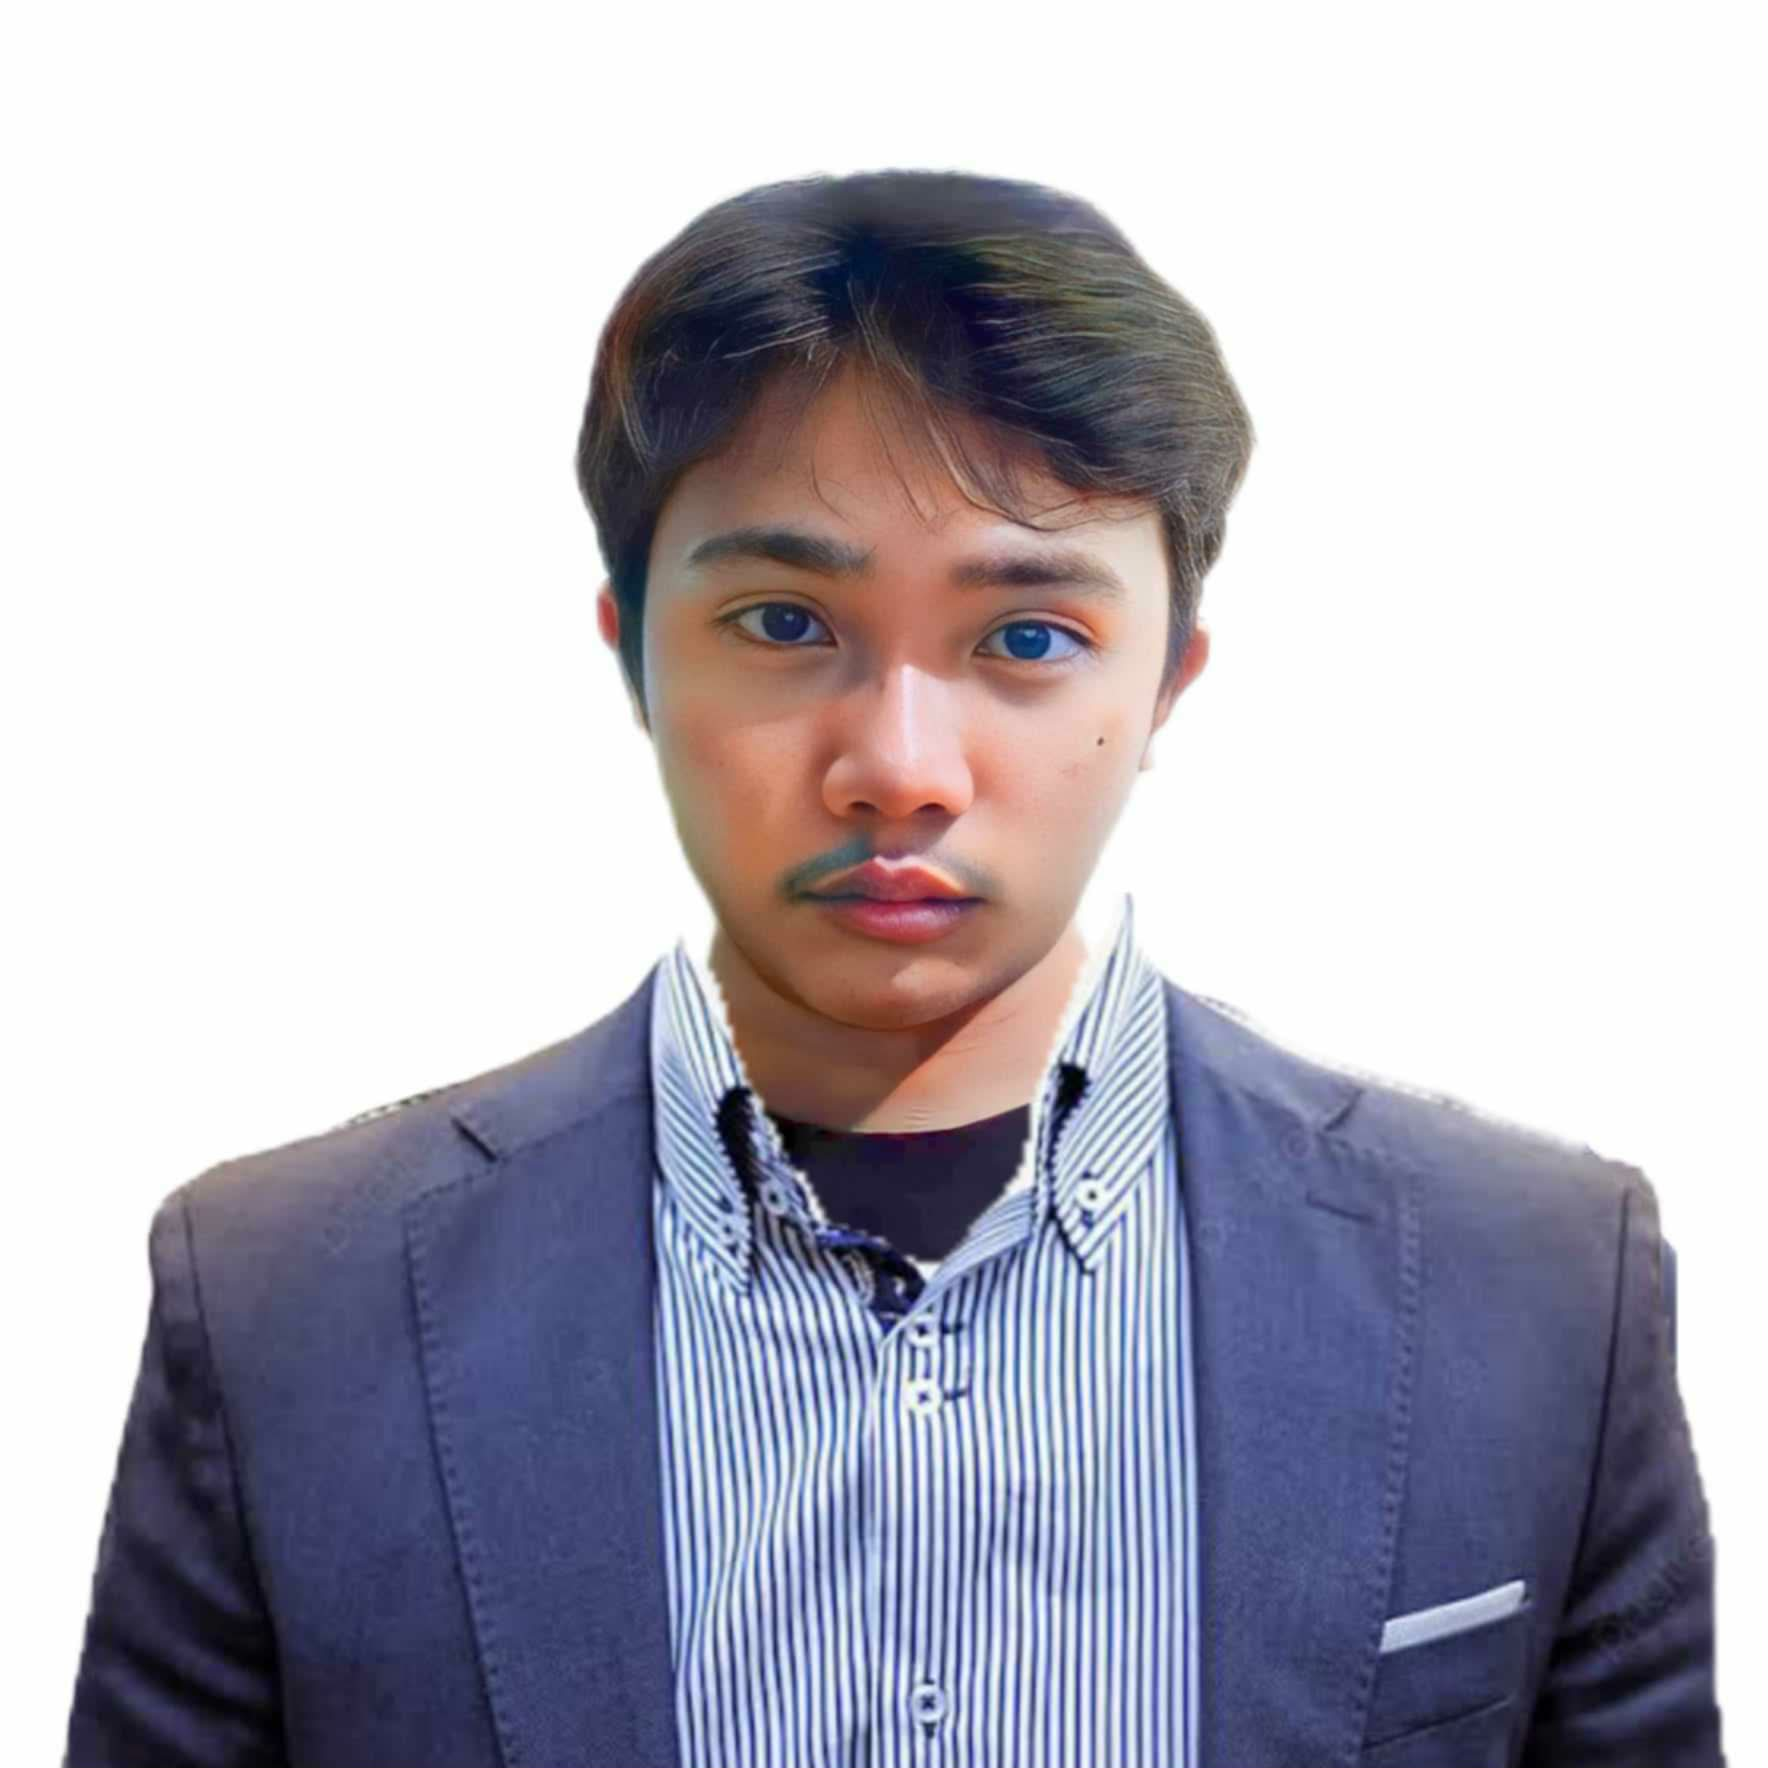
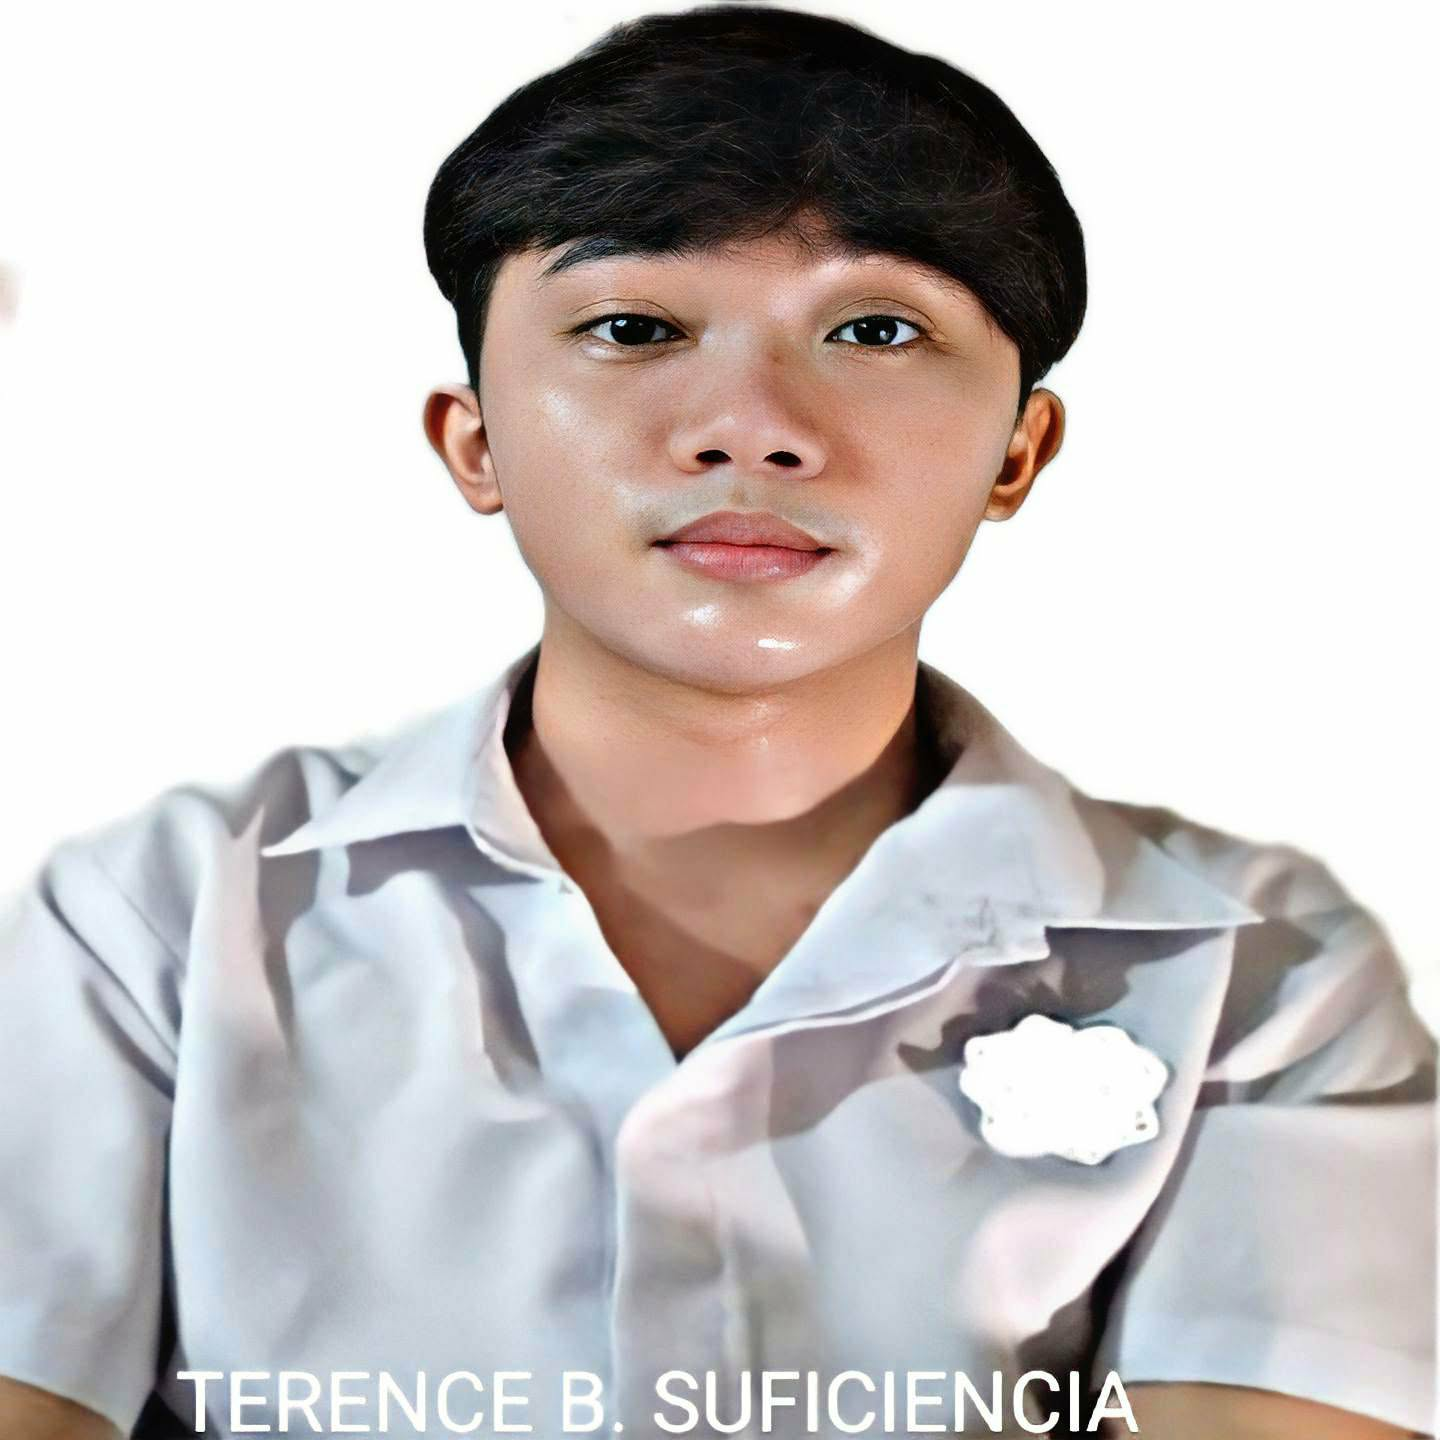
Update project with image and fixes

diff --git a/backend/server.js b/backend/server.js
@@ -13,6 +13,34 @@ app.use(
 
 app.use(express.json());
 
+/* ✅ SIGNUP ROUTE */
+app.post("/api/users/signup", async (req, res) => {
+  try {
+    const { firstName, lastName, emailAddress } = req.body;
+
+    if (!firstName || !lastName || !emailAddress) {
+      return res.status(400).json({
+        message: "Missing required fields",
+      });
+    }
+
+    await db.query(
+      "INSERT INTO users (first_name, last_name, email, password, role, status) VALUES (?, ?, ?, ?, ?, ?)",
+      [firstName, lastName, emailAddress, "123456", "student", "pending"],
+    );
+
+    res.json({
+      message: "Signup successful",
+    });
+  } catch (err) {
+    console.error("SIGNUP ERROR:", err);
+    res.status(500).json({
+      message: "Server error",
+    });
+  }
+});
+
+/* ✅ LOGIN ROUTE */
 app.post("/api/users/login", async (req, res) => {
   try {
     const { email, password } = req.body;
@@ -26,8 +54,6 @@ app.post("/api/users/login", async (req, res) => {
     const [rows] = await db.query("SELECT * FROM users WHERE email = ?", [
       email,
     ]);
-
-    console.log("FOUND USER:", rows);
 
     const user = rows[0];
 
@@ -68,6 +94,8 @@ app.post("/api/users/login", async (req, res) => {
   }
 });
 
+/* ✅ START SERVER */
 app.listen(5000, () => {
   console.log("Server running on http://localhost:5000");
 });
+``;

diff --git a/frontend/src/app/sign-up/page.js b/frontend/src/app/sign-up/page.js
@@ -535,7 +535,11 @@ export default function SignupPage() {
       {/* KEEP LOGO */}
       <div className="absolute top-4 left-4 z-50">
         <Link href="/">
-          <img src="/STIERA.png" className="w-30 h-20 object-contain" />
+          <img
+            src="/STIERA.png"
+            className="w-30 h-20 object-contain"
+            alt=" Stiera Logo"
+          />
         </Link>
       </div>
 
